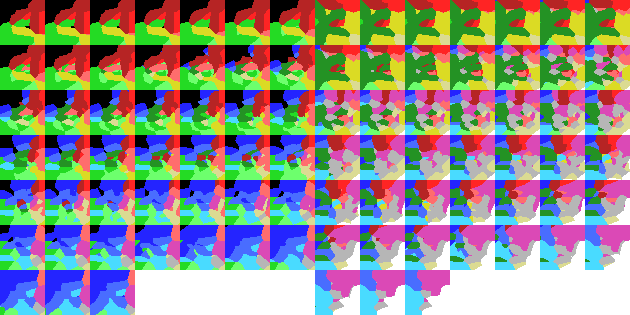
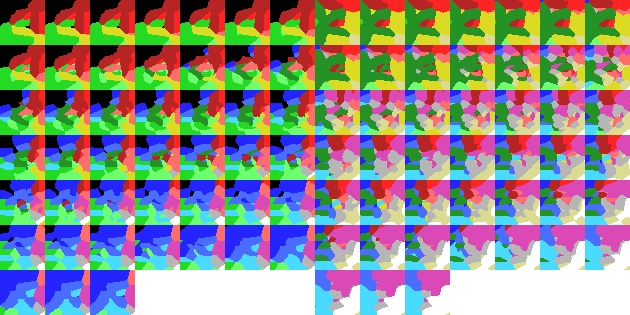
Improve MSX palette by unmapping bright yellow.

diff --git a/internal/palette/data.go b/internal/palette/data.go
@@ -831,8 +831,8 @@ var data = map[string]*Palette{
 	// MSX palette.
 	// See https://www.msx.org/wiki/COLOR%3D.
 	// Has 7 levels in each component, representing as 00 24 49 6D 92 B6 DB FF.
-	// Not mapped: dark grey.
-	"msx": newPalette([]int{0, 3, 10, 1, 9, 4, 11, 12, 13, 6, 14, 2, 5, 7, 15}, []uint32{
+	// Not mapped: dark grey, brown.
+	"msx": newPalette([]int{0, 3, 10, 1, 9, 4, 11, 12, 13, 14, 2, 5, 7, 15}, []uint32{
 		0x000000, // Black.
 		0x24DB24, // Cyan (actually green).
 		0x6DFF6D, // Light green.
@@ -842,12 +842,12 @@ var data = map[string]*Palette{
 		0x49DBFF, // Light cyan.
 		0xFF2424, // Light red.
 		0xFF6D6D, // Light pink (actually rose).
-		0xDBDB24, // Brown (actually dark yellow).
-		0xDBDB92, // Yellow.
+		0xDBDB24, // Yellow.
 		0x249224, // Green.
 		0xDB49B6, // Magenta.
 		0xB6B6B6, // Light grey.
 		0xFFFFFF, // White.
+		0xDBDB92, // Even brighter yellow. Unmapped.
 	}),
 
 	// C64 palette.
